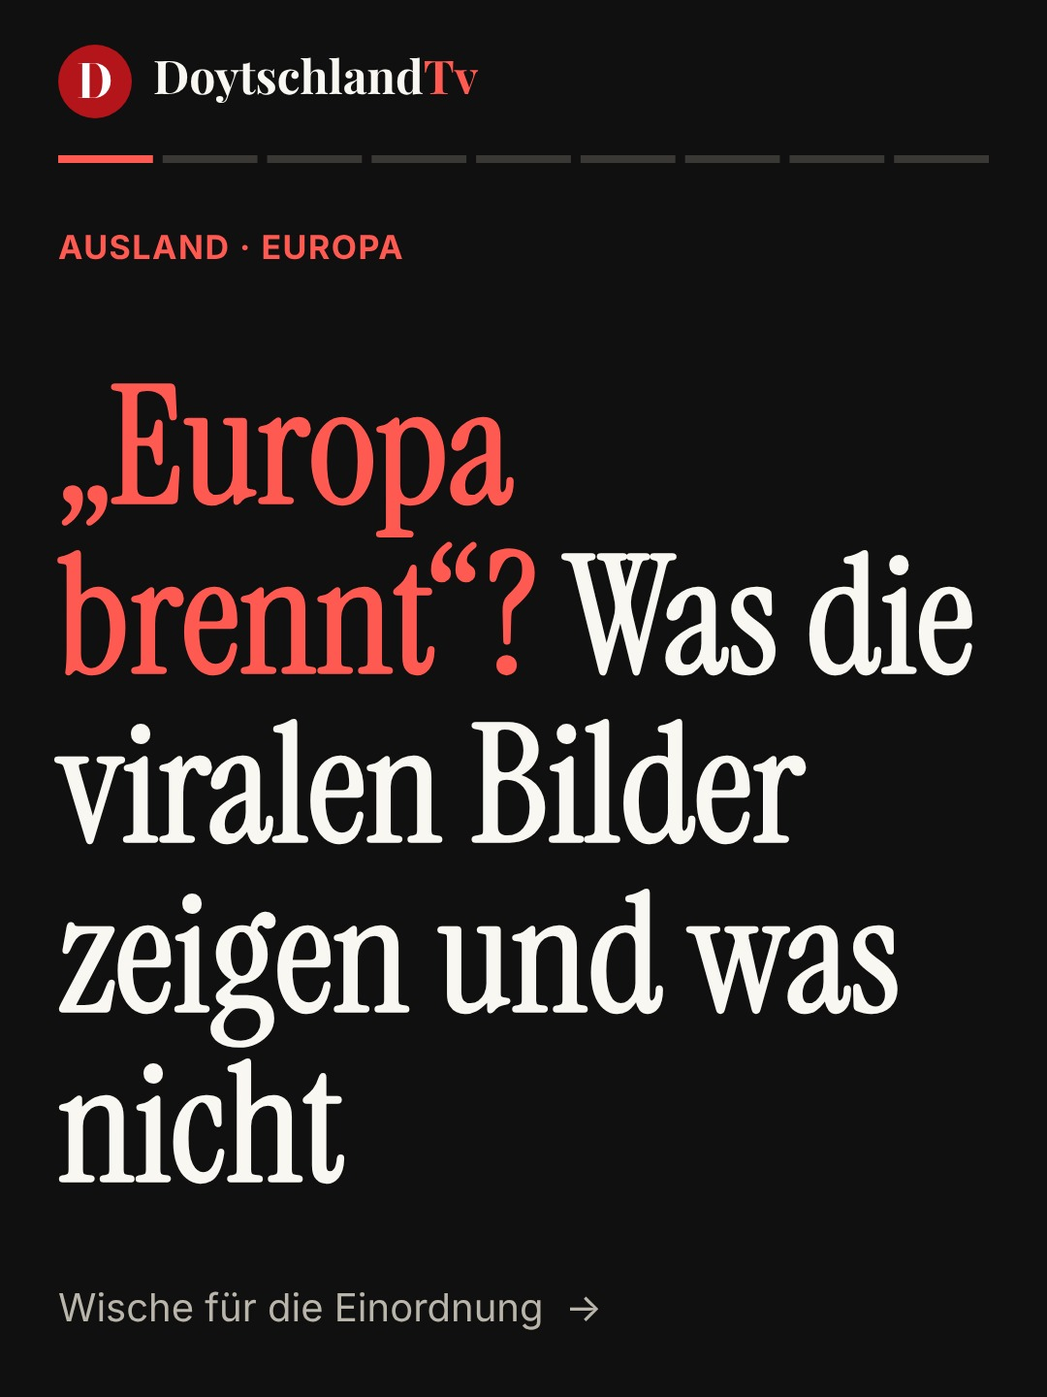
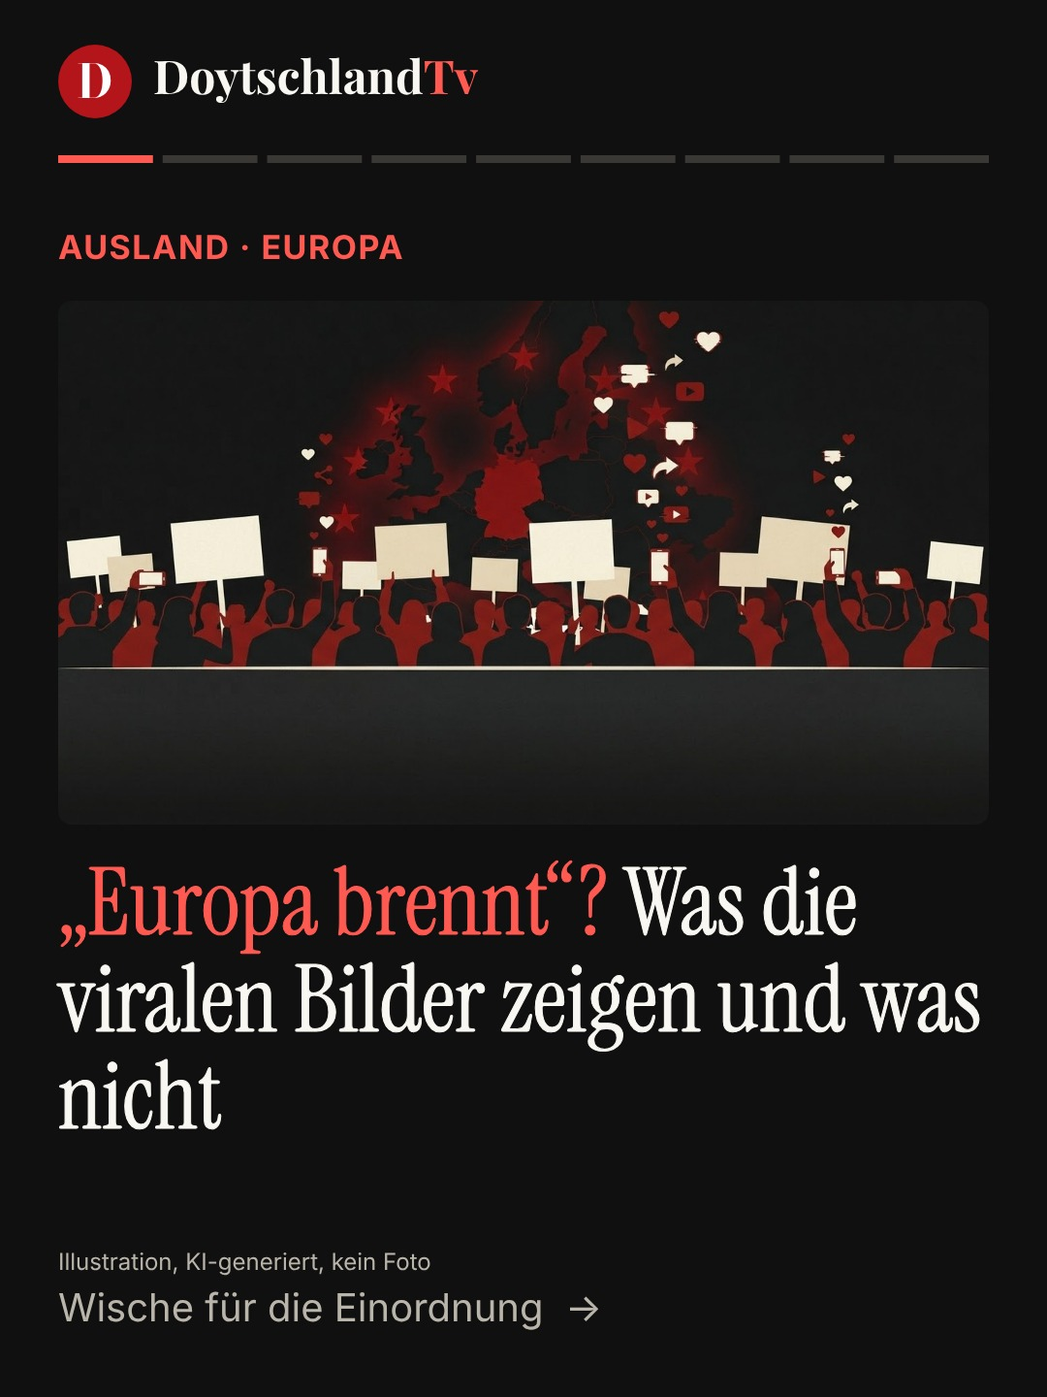
Karussell Europa: Titelbild
Claude-Session: https://claude.ai/code/session_01HADCkE2LZJHKQCUdz9XwMJ

diff --git a/beitrag/2026-10-19-europa-brennt-was-die-viralen-bilder-zeigen-und-was-nicht.html b/beitrag/2026-10-19-europa-brennt-was-die-viralen-bilder-zeigen-und-was-nicht.html
@@ -5,10 +5,10 @@
 <link rel="canonical" href="https://doytschtv.de/beitrag/2026-10-19-europa-brennt-was-die-viralen-bilder-zeigen-und-was-nicht.html">
 <meta name="robots" content="index,follow,max-image-preview:large">
 <meta property="og:type" content="article"><meta property="og:site_name" content="DoytschlandTv"><meta property="og:locale" content="de_DE">
-<meta property="og:title" content="„Europa brennt“? Was die viralen Bilder zeigen und was nicht"><meta property="og:description" content="Am Samstag demonstrierten laut Innenministerium 550.000 Menschen, die Veranstalter zählen 800.000. Auslöser: hohe Spritpreise, niedrige Löhne, marode…"><meta property="og:url" content="https://doytschtv.de/beitrag/2026-10-19-europa-brennt-was-die-viralen-bilder-zeigen-und-was-nicht.html"><meta property="og:image" content="https://doytschtv.de/og-image.png">
-<meta name="twitter:card" content="summary_large_image"><meta name="twitter:title" content="„Europa brennt“? Was die viralen Bilder zeigen und was nicht"><meta name="twitter:description" content="Am Samstag demonstrierten laut Innenministerium 550.000 Menschen, die Veranstalter zählen 800.000. Auslöser: hohe Spritpreise, niedrige Löhne, marode…"><meta name="twitter:image" content="https://doytschtv.de/og-image.png">
+<meta property="og:title" content="„Europa brennt“? Was die viralen Bilder zeigen und was nicht"><meta property="og:description" content="Am Samstag demonstrierten laut Innenministerium 550.000 Menschen, die Veranstalter zählen 800.000. Auslöser: hohe Spritpreise, niedrige Löhne, marode…"><meta property="og:url" content="https://doytschtv.de/beitrag/2026-10-19-europa-brennt-was-die-viralen-bilder-zeigen-und-was-nicht.html"><meta property="og:image" content="https://doytschtv.de/titel-europa.jpg">
+<meta name="twitter:card" content="summary_large_image"><meta name="twitter:title" content="„Europa brennt“? Was die viralen Bilder zeigen und was nicht"><meta name="twitter:description" content="Am Samstag demonstrierten laut Innenministerium 550.000 Menschen, die Veranstalter zählen 800.000. Auslöser: hohe Spritpreise, niedrige Löhne, marode…"><meta name="twitter:image" content="https://doytschtv.de/titel-europa.jpg">
 <meta name="theme-color" content="#0b0b10"><link rel="apple-touch-icon" href="/favicon.png">
-<script type="application/ld+json">{"@context": "https://schema.org", "@type": "NewsArticle", "headline": "„Europa brennt“? Was die viralen Bilder zeigen und was nicht", "description": "Am Samstag demonstrierten laut Innenministerium 550.000 Menschen, die Veranstalter zählen 800.000. Auslöser: hohe Spritpreise, niedrige Löhne, marode…", "datePublished": "2026-10-19", "dateModified": "2026-10-19", "inLanguage": "de", "mainEntityOfPage": "https://doytschtv.de/beitrag/2026-10-19-europa-brennt-was-die-viralen-bilder-zeigen-und-was-nicht.html", "image": ["https://doytschtv.de/og-image.png"], "author": {"@type": "Organization", "name": "DoytschlandTv", "url": "https://doytschtv.de/"}, "publisher": {"@type": "Organization", "name": "DoytschlandTv", "logo": {"@type": "ImageObject", "url": "https://doytschtv.de/favicon.png"}}, "articleSection": "Nachrichten", "keywords": ["doytschlandtv", "aktuell", "europa", "frankreich", "proteste", "einordnung", "faktencheck", "nachrichten"]}</script>
+<script type="application/ld+json">{"@context": "https://schema.org", "@type": "NewsArticle", "headline": "„Europa brennt“? Was die viralen Bilder zeigen und was nicht", "description": "Am Samstag demonstrierten laut Innenministerium 550.000 Menschen, die Veranstalter zählen 800.000. Auslöser: hohe Spritpreise, niedrige Löhne, marode…", "datePublished": "2026-10-19", "dateModified": "2026-10-19", "inLanguage": "de", "mainEntityOfPage": "https://doytschtv.de/beitrag/2026-10-19-europa-brennt-was-die-viralen-bilder-zeigen-und-was-nicht.html", "image": ["https://doytschtv.de/titel-europa.jpg"], "author": {"@type": "Organization", "name": "DoytschlandTv", "url": "https://doytschtv.de/"}, "publisher": {"@type": "Organization", "name": "DoytschlandTv", "logo": {"@type": "ImageObject", "url": "https://doytschtv.de/favicon.png"}}, "articleSection": "Nachrichten", "keywords": ["doytschlandtv", "aktuell", "europa", "frankreich", "proteste", "einordnung", "faktencheck", "nachrichten"]}</script>
 <link rel="stylesheet" href="/fonts.css"><link rel="stylesheet" href="/styles.css"><link rel="stylesheet" href="/briefing.css">
 <style>:root{color-scheme:light}body{margin:0}</style><link rel="icon" type="image/png" href="/favicon.png"></head><body>
-<header class="nav"><div class="wrap"><a class="brand" href="/index.html"><span class="mk" aria-hidden="true">D</span><img class="lg-l" src="/logo.png" alt="DoytschlandTv" width="136" height="25"><img class="lg-d" src="/logo-dark.png" alt="DoytschlandTv" width="136" height="25"></a><ul><li><a href="/briefing.html">Briefing</a></li><li><a href="/nachrichten.html" class=on>Nachrichten</a></li><li><a href="/dossiers.html">Dossiers</a></li><li><a href="/meinungen.html">Meinungen</a></li><li><a href="/erklaert.html">Erklärt</a></li><li><a href="/ueber-uns.html">Über uns</a></li></ul><span class="nav-so"><a href="https://www.instagram.com/doytschlandtv/" target="_blank" rel="noopener" aria-label="DoytschlandTv auf Instagram"><svg viewBox="0 0 24 24" fill="none" stroke="currentColor" stroke-width="2" stroke-linecap="round" aria-hidden="true"><rect x="3" y="3" width="18" height="18" rx="5"/><circle cx="12" cy="12" r="4.2"/><circle cx="17.3" cy="6.7" r=".6" fill="currentColor"/></svg></a><a href="https://www.tiktok.com/@doytschlandtv" target="_blank" rel="noopener" aria-label="DoytschlandTv auf TikTok"><svg viewBox="0 0 24 24" fill="currentColor" aria-hidden="true"><path d="M16.6 5.8A4.3 4.3 0 0 1 15.5 3h-3.1v12.4a2.6 2.6 0 1 1-1.8-2.5V9.7a5.7 5.7 0 1 0 4.9 5.7V9a7.3 7.3 0 0 0 4.3 1.4V7.3a4.3 4.3 0 0 1-3.2-1.5z"/></svg></a></span></div></header><main><div class="wrap"><article class="kol"><p class="b-eyebrow">Nachrichten · Ausland · Europa</p><h1 class="mk-h1">„Europa brennt“? Was die viralen Bilder zeigen und was nicht</h1><p class="mk-meta">19. Oktober 2026</p><h2>Frankreich</h2><p><strong>550.000 auf der Straße, schwere Gewalt.</strong></p><p>Am Samstag demonstrierten laut Innenministerium 550.000 Menschen, die Veranstalter zählen 800.000. Auslöser: hohe Spritpreise, niedrige Löhne, marode Schulen. Premier Lecornu nennt rund 1.200 Festnahmen und 150 verletzte Polizisten. In Limoges brannte das Rathaus weitgehend aus.</p><h2>Spanien</h2><p><strong>70.000 oder 500.000</strong> Menschen zählten am 3. Oktober in Madrid die Behörden (70.000) und die Veranstalter (500.000). Auslöser war die Zwangsräumung einer 87-Jährigen und die Ablehnung zweier Mieterschutz-Dekrete im Parlament am 2. Oktober.</p><h2>Die Auslöser: Gleiche Bilder, andere Gründe</h2><ul><li><strong>Frankreich:</strong> Sprit, Löhne, Schulen. Die Regierung nennt die Gewalttäter linksextrem und gut organisiert.</li><li><strong>Spanien, Portugal:</strong> Mieten und Zwangsräumungen. In Porto räumte die Polizei ein Camp, laut Wohnbewegung 37 Verletzte.</li><li><strong>Italien, Belgien:</strong> Teuerung und Sparpläne bei der Bildung. In Mailand 25 Verletzte, davon 10 Polizisten.</li><li><strong>Albanien:</strong> Studierende fordern den Rücktritt von Premier Rama. Seit fünf Tagen Gewalt in Tirana.</li></ul><h2>Behauptung und Fakt</h2><p><strong>Veranstalter:</strong> Frankreich: 800.000. Madrid: 500.000.</p><p><strong>Behörden:</strong> Frankreich: 550.000. Madrid: 70.000. Wer zählt, bestimmt die Zahl.</p><h2>Falsche Bilder</h2><p><strong>Alt, falsch zugeordnet</strong></p><p>Faktenchecks von ZDFheute und AFP zu den Protesten in Frankreich: Ein Video mit 5,5 Millionen Aufrufen, das Paris als „Kriegsgebiet“ zeigt, stammt von März 2023. Ein Busbrand in Nîmes, als Folge von Migration dargestellt, war 2023 ein technischer Defekt. Jubel nach dem PSG-Finale lief als „Frankreich brennt“.</p><h2>Wer die Bilder nutzt</h2><p><strong>Sofort politisch aufgeladen</strong></p><p>US-Vizepräsident Vance machte aus dem Video des brennenden Rathauses von Limoges Kritik an der Migrationspolitik, Trump forderte Frankreich auf, die Grenzen zu schließen, Bruno Retailleau den Ausnahmezustand. Der Aufruf zum Protesttag kursierte im Netz, ohne dass eine Organisation dahinter stand.</p><h2>Unsere Meinung</h2><p>Wir stehen zu Protest und zum Recht, zu demonstrieren, aber nicht mit Gewalt. Soziale Netzwerke verbreiten Bilder aus den Krawallen, oft alt oder falsch zugeordnet. Daraus werden Desinformation und Aufrufe, die Angst machen und Rechtspopulisten nützen, auch bei uns. Die Anliegen sind real: Sprit, Mieten, Schulen. Gründe und Gewalt gehören getrennt betrachtet.</p><h2>Was meinst du?</h2><p><strong>Warum gehen in so vielen Ländern gleichzeitig Menschen gegen Preise und Kosten auf die Straße?</strong></p><h2>Quellen</h2><ul><li>ORF, 18.10.2026; Tagesspiegel (dpa), 18.10.2026</li><li>Euronews, 3.10.2026; ORF, 8.10.2026</li><li>ORF, Euronews, ostbelgiendirekt.be, Oktober 2026</li><li>ORF, 18.10.2026; Euronews, 3.10.2026</li><li>ZDFheute, 14.10.2026; AFP/GADMO, 8.10.2026</li><li>20 Minuten (dpa), 18.10.2026; Tagesspiegel (dpa), 18.10.2026</li></ul><p><a href="/nachrichten.html">Alle Karussells ansehen ›</a></p><p class="mk-meta">Fakten sind mit Quellen belegt, Meinung ist als „Unsere Meinung“ gekennzeichnet.</p></article></div></main><footer><div class="wrap"><span>© DoytschlandTv</span><span><a href="/impressum.html">Impressum</a> · <a href="/datenschutz.html">Datenschutz</a></span></div></footer></body></html>
+<header class="nav"><div class="wrap"><a class="brand" href="/index.html"><span class="mk" aria-hidden="true">D</span><img class="lg-l" src="/logo.png" alt="DoytschlandTv" width="136" height="25"><img class="lg-d" src="/logo-dark.png" alt="DoytschlandTv" width="136" height="25"></a><ul><li><a href="/briefing.html">Briefing</a></li><li><a href="/nachrichten.html" class=on>Nachrichten</a></li><li><a href="/dossiers.html">Dossiers</a></li><li><a href="/meinungen.html">Meinungen</a></li><li><a href="/erklaert.html">Erklärt</a></li><li><a href="/ueber-uns.html">Über uns</a></li></ul><span class="nav-so"><a href="https://www.instagram.com/doytschlandtv/" target="_blank" rel="noopener" aria-label="DoytschlandTv auf Instagram"><svg viewBox="0 0 24 24" fill="none" stroke="currentColor" stroke-width="2" stroke-linecap="round" aria-hidden="true"><rect x="3" y="3" width="18" height="18" rx="5"/><circle cx="12" cy="12" r="4.2"/><circle cx="17.3" cy="6.7" r=".6" fill="currentColor"/></svg></a><a href="https://www.tiktok.com/@doytschlandtv" target="_blank" rel="noopener" aria-label="DoytschlandTv auf TikTok"><svg viewBox="0 0 24 24" fill="currentColor" aria-hidden="true"><path d="M16.6 5.8A4.3 4.3 0 0 1 15.5 3h-3.1v12.4a2.6 2.6 0 1 1-1.8-2.5V9.7a5.7 5.7 0 1 0 4.9 5.7V9a7.3 7.3 0 0 0 4.3 1.4V7.3a4.3 4.3 0 0 1-3.2-1.5z"/></svg></a></span></div></header><main><div class="wrap"><article class="kol"><p class="b-eyebrow">Nachrichten · Ausland · Europa</p><h1 class="mk-h1">„Europa brennt“? Was die viralen Bilder zeigen und was nicht</h1><p class="mk-meta">19. Oktober 2026</p><figure style="margin:1rem 0"><img src="/titel-europa.jpg" alt="„Europa brennt“? Was die viralen Bilder zeigen und was nicht" style="width:100%;height:auto;border-radius:1rem" loading="lazy"><figcaption class="mk-meta">Illustration, KI-generiert, kein Foto</figcaption></figure><h2>Frankreich</h2><p><strong>550.000 auf der Straße, schwere Gewalt.</strong></p><p>Am Samstag demonstrierten laut Innenministerium 550.000 Menschen, die Veranstalter zählen 800.000. Auslöser: hohe Spritpreise, niedrige Löhne, marode Schulen. Premier Lecornu nennt rund 1.200 Festnahmen und 150 verletzte Polizisten. In Limoges brannte das Rathaus weitgehend aus.</p><h2>Spanien</h2><p><strong>70.000 oder 500.000</strong> Menschen zählten am 3. Oktober in Madrid die Behörden (70.000) und die Veranstalter (500.000). Auslöser war die Zwangsräumung einer 87-Jährigen und die Ablehnung zweier Mieterschutz-Dekrete im Parlament am 2. Oktober.</p><h2>Die Auslöser: Gleiche Bilder, andere Gründe</h2><ul><li><strong>Frankreich:</strong> Sprit, Löhne, Schulen. Die Regierung nennt die Gewalttäter linksextrem und gut organisiert.</li><li><strong>Spanien, Portugal:</strong> Mieten und Zwangsräumungen. In Porto räumte die Polizei ein Camp, laut Wohnbewegung 37 Verletzte.</li><li><strong>Italien, Belgien:</strong> Teuerung und Sparpläne bei der Bildung. In Mailand 25 Verletzte, davon 10 Polizisten.</li><li><strong>Albanien:</strong> Studierende fordern den Rücktritt von Premier Rama. Seit fünf Tagen Gewalt in Tirana.</li></ul><h2>Behauptung und Fakt</h2><p><strong>Veranstalter:</strong> Frankreich: 800.000. Madrid: 500.000.</p><p><strong>Behörden:</strong> Frankreich: 550.000. Madrid: 70.000. Wer zählt, bestimmt die Zahl.</p><h2>Falsche Bilder</h2><p><strong>Alt, falsch zugeordnet</strong></p><p>Faktenchecks von ZDFheute und AFP zu den Protesten in Frankreich: Ein Video mit 5,5 Millionen Aufrufen, das Paris als „Kriegsgebiet“ zeigt, stammt von März 2023. Ein Busbrand in Nîmes, als Folge von Migration dargestellt, war 2023 ein technischer Defekt. Jubel nach dem PSG-Finale lief als „Frankreich brennt“.</p><h2>Wer die Bilder nutzt</h2><p><strong>Sofort politisch aufgeladen</strong></p><p>US-Vizepräsident Vance machte aus dem Video des brennenden Rathauses von Limoges Kritik an der Migrationspolitik, Trump forderte Frankreich auf, die Grenzen zu schließen, Bruno Retailleau den Ausnahmezustand. Der Aufruf zum Protesttag kursierte im Netz, ohne dass eine Organisation dahinter stand.</p><h2>Unsere Meinung</h2><p>Wir stehen zu Protest und zum Recht, zu demonstrieren, aber nicht mit Gewalt. Soziale Netzwerke verbreiten Bilder aus den Krawallen, oft alt oder falsch zugeordnet. Daraus werden Desinformation und Aufrufe, die Angst machen und Rechtspopulisten nützen, auch bei uns. Die Anliegen sind real: Sprit, Mieten, Schulen. Gründe und Gewalt gehören getrennt betrachtet.</p><h2>Was meinst du?</h2><p><strong>Warum gehen in so vielen Ländern gleichzeitig Menschen gegen Preise und Kosten auf die Straße?</strong></p><h2>Quellen</h2><ul><li>ORF, 18.10.2026; Tagesspiegel (dpa), 18.10.2026</li><li>Euronews, 3.10.2026; ORF, 8.10.2026</li><li>ORF, Euronews, ostbelgiendirekt.be, Oktober 2026</li><li>ORF, 18.10.2026; Euronews, 3.10.2026</li><li>ZDFheute, 14.10.2026; AFP/GADMO, 8.10.2026</li><li>20 Minuten (dpa), 18.10.2026; Tagesspiegel (dpa), 18.10.2026</li></ul><p><a href="/nachrichten.html">Alle Karussells ansehen ›</a></p><p class="mk-meta">Fakten sind mit Quellen belegt, Meinung ist als „Unsere Meinung“ gekennzeichnet.</p></article></div></main><footer><div class="wrap"><span>© DoytschlandTv</span><span><a href="/impressum.html">Impressum</a> · <a href="/datenschutz.html">Datenschutz</a></span></div></footer></body></html>

diff --git a/index.html b/index.html
@@ -64,7 +64,7 @@
         <h2 id="heute-h">Zuletzt im Blick</h2>
         <p id="heute-datum">19. Oktober 2026</p>
       </div>
-      <div class="hc-wrap"><button class="hc-b" id="hc-prev" type="button" aria-label="Zurück">&lsaquo;</button><div class="hc-rail" id="heute-liste" tabindex="0" aria-label="Schlagzeilen, seitlich wischen"><!--heute--><a class="hc" href="nachrichten.html#%E2%80%9EEuropa%20brennt%E2%80%9C%3F%20Was%20die%20viralen%20Bilder%20zeigen%20und%20was%20nicht"><span class="hc-t"><span class="k">Nachrichten · Mo., 19.10.</span><strong>„Europa brennt“? Was die viralen Bilder zeigen und was nicht</strong></span></a><a class="hc has-img" href="nachrichten.html#Morning%20Briefing%2C%20Montag%2C%2019.%20Oktober%202026"><span class="hc-i"><img class="bg" src="titel-morning-briefing.jpg" alt="" loading="lazy" aria-hidden="true"><img class="fg" src="titel-morning-briefing.jpg" alt="" loading="lazy"></span><span class="hc-t"><span class="k">Nachrichten · Mo., 19.10.</span><strong>Morning Briefing, Montag, 19. Oktober 2026</strong><small>Grafik, DoytschlandTv</small></span></a><a class="hc has-img" href="nachrichten.html#Trump%20setzt%20neue%20Russland-Sanktionen%20aus"><span class="hc-i"><img class="bg" src="titel-russland.jpg" alt="" loading="lazy" aria-hidden="true"><img class="fg" src="titel-russland.jpg" alt="" loading="lazy"></span><span class="hc-t"><span class="k">Nachrichten · Mo., 19.10.</span><strong>Trump setzt neue Russland-Sanktionen aus</strong><small>Illustration, KI-generiert, kein Foto</small></span></a><a class="hc has-img" href="nachrichten.html#Berlin%3A%20Linke%2C%20Gr%C3%BCne%20und%20SPD%20wollen%20gro%C3%9Fe%20Wohnungskonzerne%20vergesellschaften"><span class="hc-i"><img class="bg" src="titel-berlin.jpg" alt="" loading="lazy" aria-hidden="true"><img class="fg" src="titel-berlin.jpg" alt="" loading="lazy"></span><span class="hc-t"><span class="k">Nachrichten · Mo., 19.10.</span><strong>Berlin: Linke, Grüne und SPD wollen große Wohnungskonzerne vergesellschaften</strong><small>Illustration, KI-generiert, kein Foto</small></span></a><a class="hc" href="nachrichten.html#Morning%20Briefing%2C%20Sonntag%2C%2018.%20Oktober%202026"><span class="hc-t"><span class="k">Nachrichten · So., 18.10.</span><strong>Morning Briefing, Sonntag, 18. Oktober 2026</strong></span></a><a class="hc has-img" href="nachrichten.html#Frankreich%3A%20Landesweiter%20Protesttag%20endet%20mit%20schweren%20Krawallen"><span class="hc-i"><img class="bg" src="titel-frankreich.jpg" alt="" loading="lazy" aria-hidden="true"><img class="fg" src="titel-frankreich.jpg" alt="" loading="lazy"></span><span class="hc-t"><span class="k">Nachrichten · So., 18.10.</span><strong>Frankreich: Landesweiter Protesttag endet mit schweren Krawallen</strong><small>Illustration, KI-generiert, kein Foto</small></span></a><a class="hc has-img" href="nachrichten.html#WDR%20will%20sein%20Angebot%20bis%202030%20halbieren"><span class="hc-i"><img class="bg" src="titel-wdr.jpg" alt="" loading="lazy" aria-hidden="true"><img class="fg" src="titel-wdr.jpg" alt="" loading="lazy"></span><span class="hc-t"><span class="k">Nachrichten · So., 18.10.</span><strong>WDR will sein Angebot bis 2030 halbieren</strong><small>Illustration, KI-generiert, kein Foto</small></span></a><a class="hc has-img" href="briefing.html#2026-10-19"><span class="hc-i"><img class="bg" src="titel-briefing.jpg" alt="" loading="lazy" aria-hidden="true"><img class="fg" src="titel-briefing.jpg" alt="" loading="lazy"></span><span class="hc-t"><span class="k">Morning Briefing</span><strong>Frankreich: Nach dem Protesttag 1.200 Festnahmen und 4 weitere Themen</strong><small>Illustration, KI-generiert, kein Foto</small></span></a><a class="hc has-img" href="meinungen.html#2026-10-11"><span class="hc-i"><img class="bg" src="kolumne-christ.jpg" alt="" loading="lazy" aria-hidden="true"><img class="fg" src="kolumne-christ.jpg" alt="" loading="lazy"></span><span class="hc-t"><span class="k">Kolumne · Demokratie</span><strong>Selbstauskunft ist keine Kontrolle: Was der Fall Christ über Beratergremien zeigt</strong><small>Illustration, KI-generiert, kein Foto.</small></span></a><a class="hc" href="erklaert.html#schuldenbremse"><span class="hc-t"><span class="k">Erklärt</span><strong>Schuldenbremse und Sondervermögen</strong></span></a><!--/heute--></div><button class="hc-b nx" id="hc-next" type="button" aria-label="Weiter">&rsaquo;</button></div>
+      <div class="hc-wrap"><button class="hc-b" id="hc-prev" type="button" aria-label="Zurück">&lsaquo;</button><div class="hc-rail" id="heute-liste" tabindex="0" aria-label="Schlagzeilen, seitlich wischen"><!--heute--><a class="hc has-img" href="nachrichten.html#%E2%80%9EEuropa%20brennt%E2%80%9C%3F%20Was%20die%20viralen%20Bilder%20zeigen%20und%20was%20nicht"><span class="hc-i"><img class="bg" src="titel-europa.jpg" alt="" loading="lazy" aria-hidden="true"><img class="fg" src="titel-europa.jpg" alt="" loading="lazy"></span><span class="hc-t"><span class="k">Nachrichten · Mo., 19.10.</span><strong>„Europa brennt“? Was die viralen Bilder zeigen und was nicht</strong><small>Illustration, KI-generiert, kein Foto</small></span></a><a class="hc has-img" href="nachrichten.html#Morning%20Briefing%2C%20Montag%2C%2019.%20Oktober%202026"><span class="hc-i"><img class="bg" src="titel-morning-briefing.jpg" alt="" loading="lazy" aria-hidden="true"><img class="fg" src="titel-morning-briefing.jpg" alt="" loading="lazy"></span><span class="hc-t"><span class="k">Nachrichten · Mo., 19.10.</span><strong>Morning Briefing, Montag, 19. Oktober 2026</strong><small>Grafik, DoytschlandTv</small></span></a><a class="hc has-img" href="nachrichten.html#Trump%20setzt%20neue%20Russland-Sanktionen%20aus"><span class="hc-i"><img class="bg" src="titel-russland.jpg" alt="" loading="lazy" aria-hidden="true"><img class="fg" src="titel-russland.jpg" alt="" loading="lazy"></span><span class="hc-t"><span class="k">Nachrichten · Mo., 19.10.</span><strong>Trump setzt neue Russland-Sanktionen aus</strong><small>Illustration, KI-generiert, kein Foto</small></span></a><a class="hc has-img" href="nachrichten.html#Berlin%3A%20Linke%2C%20Gr%C3%BCne%20und%20SPD%20wollen%20gro%C3%9Fe%20Wohnungskonzerne%20vergesellschaften"><span class="hc-i"><img class="bg" src="titel-berlin.jpg" alt="" loading="lazy" aria-hidden="true"><img class="fg" src="titel-berlin.jpg" alt="" loading="lazy"></span><span class="hc-t"><span class="k">Nachrichten · Mo., 19.10.</span><strong>Berlin: Linke, Grüne und SPD wollen große Wohnungskonzerne vergesellschaften</strong><small>Illustration, KI-generiert, kein Foto</small></span></a><a class="hc" href="nachrichten.html#Morning%20Briefing%2C%20Sonntag%2C%2018.%20Oktober%202026"><span class="hc-t"><span class="k">Nachrichten · So., 18.10.</span><strong>Morning Briefing, Sonntag, 18. Oktober 2026</strong></span></a><a class="hc has-img" href="nachrichten.html#Frankreich%3A%20Landesweiter%20Protesttag%20endet%20mit%20schweren%20Krawallen"><span class="hc-i"><img class="bg" src="titel-frankreich.jpg" alt="" loading="lazy" aria-hidden="true"><img class="fg" src="titel-frankreich.jpg" alt="" loading="lazy"></span><span class="hc-t"><span class="k">Nachrichten · So., 18.10.</span><strong>Frankreich: Landesweiter Protesttag endet mit schweren Krawallen</strong><small>Illustration, KI-generiert, kein Foto</small></span></a><a class="hc has-img" href="nachrichten.html#WDR%20will%20sein%20Angebot%20bis%202030%20halbieren"><span class="hc-i"><img class="bg" src="titel-wdr.jpg" alt="" loading="lazy" aria-hidden="true"><img class="fg" src="titel-wdr.jpg" alt="" loading="lazy"></span><span class="hc-t"><span class="k">Nachrichten · So., 18.10.</span><strong>WDR will sein Angebot bis 2030 halbieren</strong><small>Illustration, KI-generiert, kein Foto</small></span></a><a class="hc has-img" href="briefing.html#2026-10-19"><span class="hc-i"><img class="bg" src="titel-briefing.jpg" alt="" loading="lazy" aria-hidden="true"><img class="fg" src="titel-briefing.jpg" alt="" loading="lazy"></span><span class="hc-t"><span class="k">Morning Briefing</span><strong>Frankreich: Nach dem Protesttag 1.200 Festnahmen und 4 weitere Themen</strong><small>Illustration, KI-generiert, kein Foto</small></span></a><a class="hc has-img" href="meinungen.html#2026-10-11"><span class="hc-i"><img class="bg" src="kolumne-christ.jpg" alt="" loading="lazy" aria-hidden="true"><img class="fg" src="kolumne-christ.jpg" alt="" loading="lazy"></span><span class="hc-t"><span class="k">Kolumne · Demokratie</span><strong>Selbstauskunft ist keine Kontrolle: Was der Fall Christ über Beratergremien zeigt</strong><small>Illustration, KI-generiert, kein Foto.</small></span></a><a class="hc" href="erklaert.html#schuldenbremse"><span class="hc-t"><span class="k">Erklärt</span><strong>Schuldenbremse und Sondervermögen</strong></span></a><!--/heute--></div><button class="hc-b nx" id="hc-next" type="button" aria-label="Weiter">&rsaquo;</button></div>
     </div>
   </section>
 

diff --git a/briefings.js b/briefings.js
@@ -277,7 +277,12 @@ window.BRIEFINGS = [
       "typ": "hook",
       "kicker": "Ausland · Europa",
       "titel": "„Europa brennt“? Was die viralen Bilder zeigen und was nicht",
-      "rot": "„Europa brennt“?"
+      "rot": "„Europa brennt“?",
+      "bild": {
+       "url": "titel-europa.jpg",
+       "fokus": 0.5,
+       "unter": "Illustration, KI-generiert, kein Foto"
+      }
      },
      {
       "typ": "fakten",
@@ -403,7 +408,12 @@ window.BRIEFINGS = [
     "rot": "„Europa brennt“?",
     "text": "Zahlen, Gründe und Gewalt in sechs Ländern, im Karussell, Link in der Bio.",
     "quelle": "ORF; dpa; Euronews, 18.10.2026",
-    "theme": "dark"
+    "theme": "dark",
+    "bild": {
+     "url": "titel-europa.jpg",
+     "fokus": 0.5,
+     "unter": "Illustration, KI-generiert, kein Foto"
+    }
    }
   ]
  },
